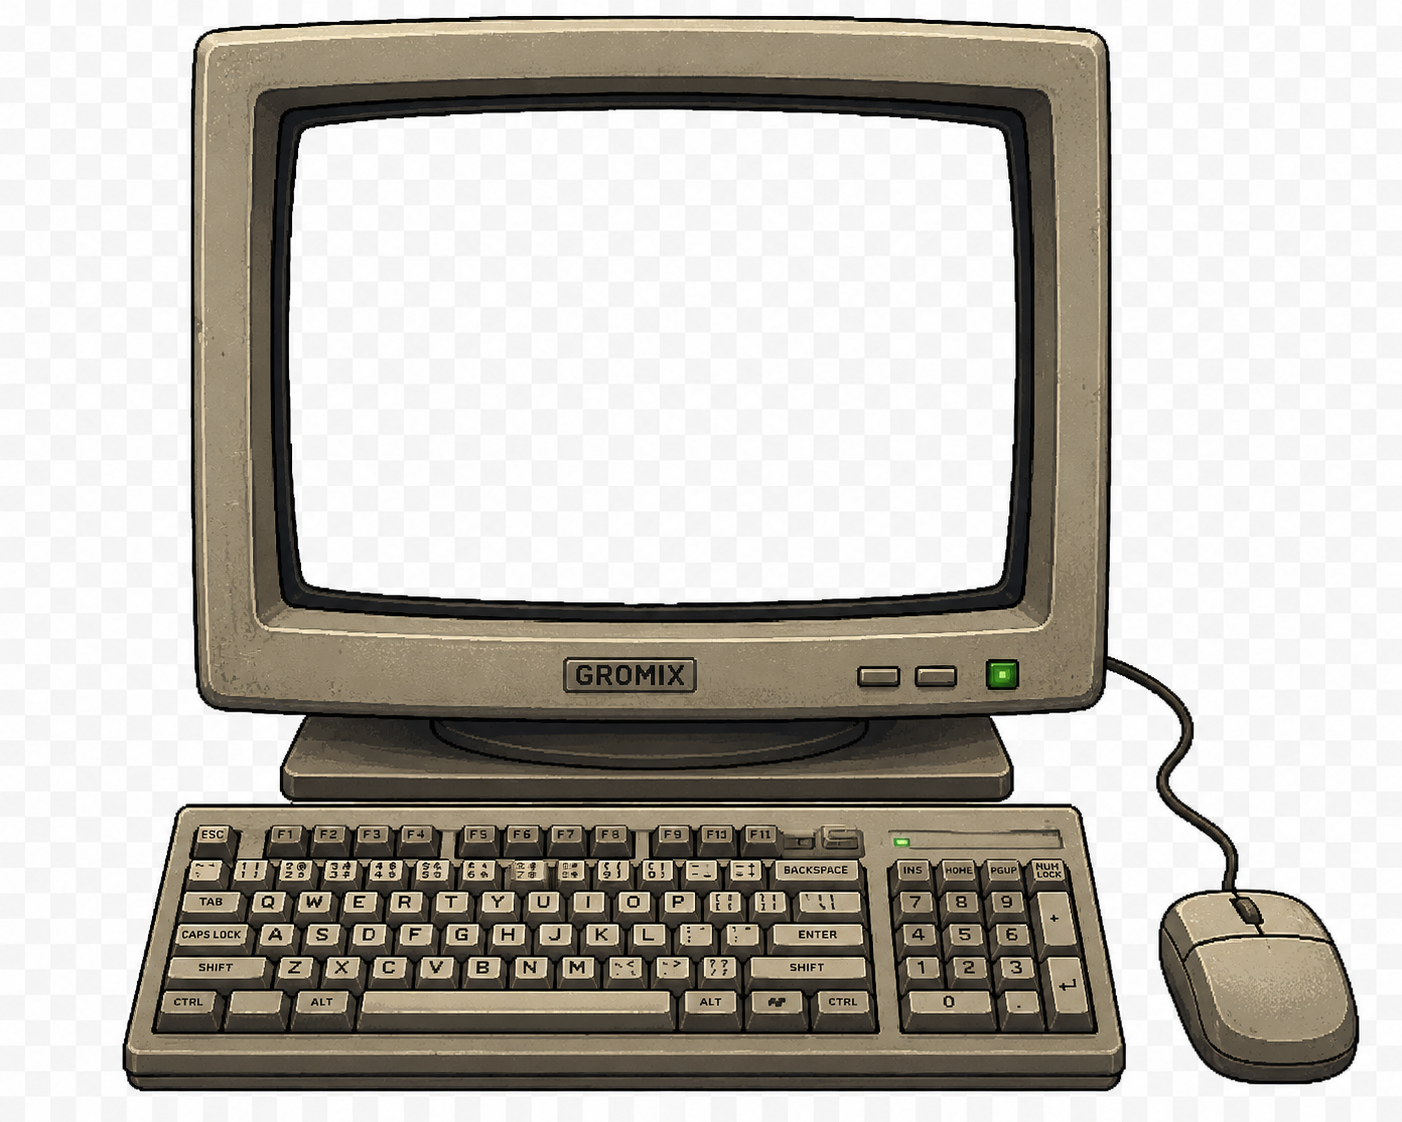
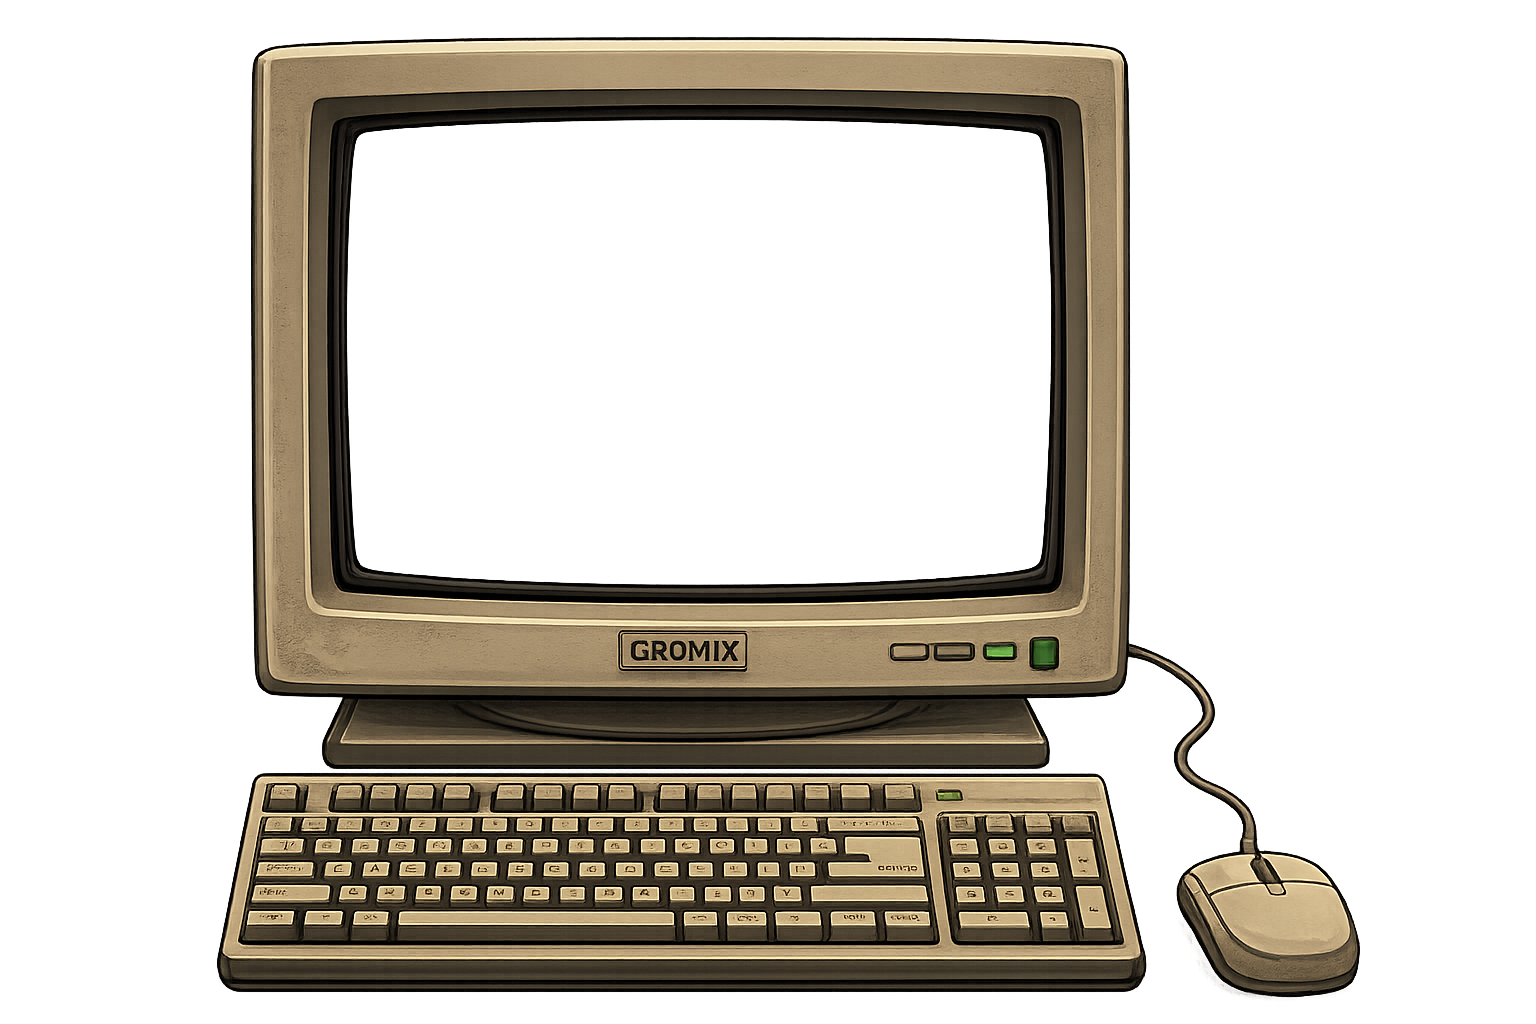
new monitor PNG + sprite transparency fix

diff --git a/css/boot.css b/css/boot.css
@@ -26,11 +26,11 @@
   image-rendering: pixelated;
 }
 
-/* Screen sits behind monitor PNG, over the white opening.
-   Measured: left=20%, top=9%, width=52.8%, height=45.5% */
+/* Screen sits behind monitor PNG, over the transparent opening.
+   Measured: bezel left=22.9%, top=11.6%, right=68.0%, bottom=57.0% */
 #crtScreen {
   position: absolute;
-  left: 20.0%; top: 9.0%; width: 52.8%; height: 45.5%;
+  left: 22.9%; top: 11.6%; width: 45.1%; height: 45.4%;
   z-index: 2; background: #000d00; overflow: hidden; border-radius: 3px;
 }
 #crtScreen::before {
